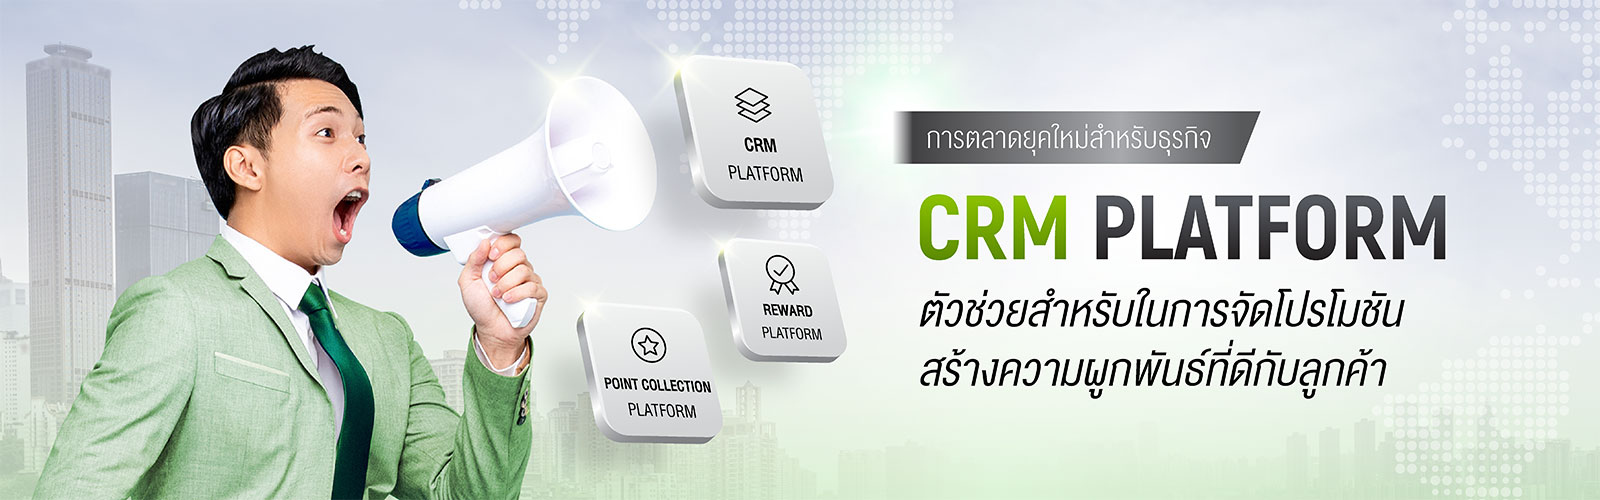
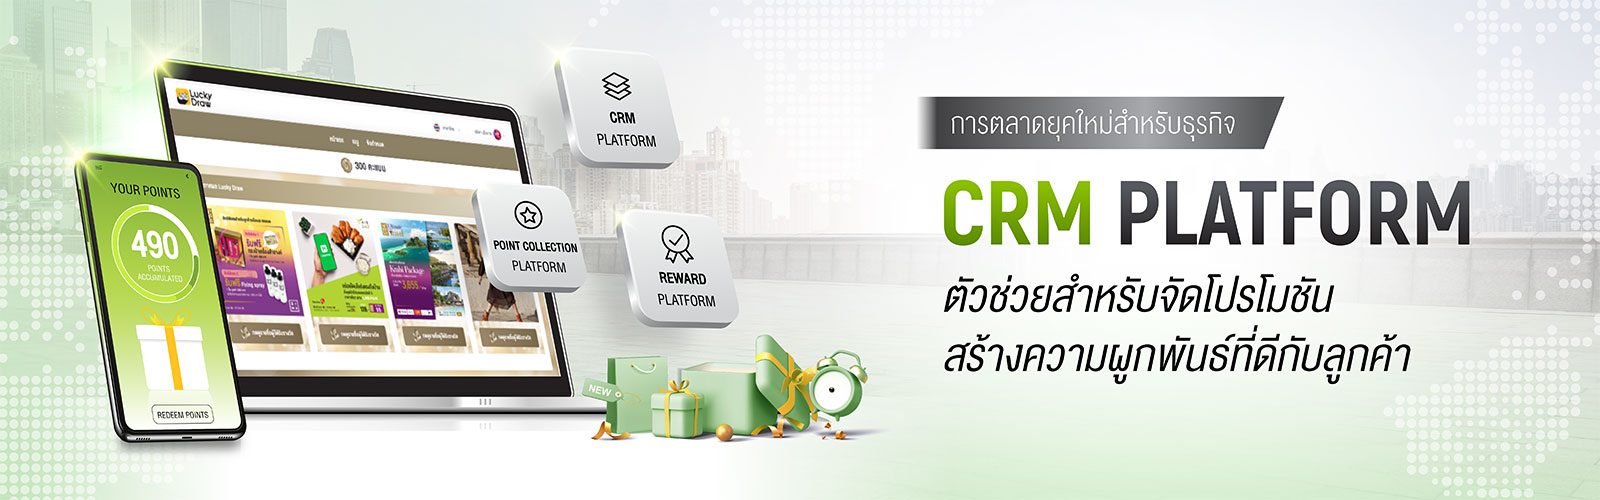
add img page crm, edit design new, add bg-size

diff --git a/css/digistyle.css b/css/digistyle.css
@@ -1268,15 +1268,15 @@ body>sec {
     height: auto;
     bottom: 0;
     right: 0;
-    margin-bottom: 1%;
-    margin-right: 48%;
+    margin-bottom: 8%;
+    margin-right: 55%;
     z-index: 2;
 }
 .fragment-crm-banner3 {
     animation-delay: 500ms;
     -webkit-animation-delay: 500ms;
     position: absolute;
-    width: 39%;
+    width: 56%;
     height: auto;
     bottom: 0;
     left: 0;
@@ -2100,19 +2100,18 @@ body>sec {
     object-fit: contain;
     bottom: 0;
     right: 0;
-    margin-bottom: 2%;
     margin-right: 5%;
 }
 .ic-crm5 {
     position: absolute;
-    max-width: 25%;
-    width: 25%;
+    max-width: 21%;
+    width: 21%;
     height: auto;
     object-fit: contain;
     bottom: 0;
     right: 0;
     margin-bottom: 5%;
-    margin-right: 25.5%;
+    margin-right: 27%;
     z-index: 2;
 }
 .ic-crm6 {
@@ -2127,14 +2126,14 @@ body>sec {
 }
 .ic-crm7 {
     position: absolute;
-    max-width: 25%;
-    width: 25%;
+    max-width: 23%;
+    width: 23%;
     height: auto;
     object-fit: contain;
     bottom: 0;
     left: 0;
-    margin-bottom: 21%;
-    margin-left: 23%;
+    margin-bottom: 16%;
+    margin-left: 18%;
 }
 /* ---------------------------End Style CRM Page------------------------ */
 
@@ -3321,6 +3320,7 @@ body>sec {
     }
     #otp {
         padding: 3% 0 0 0;
+        background-size: cover;
     }
     .icmob-08 {
         position: relative;
@@ -3432,6 +3432,9 @@ body>sec {
     #web-appdev {
         padding: 3% 0 0 0;
     }
+    #mob-appdev {
+        background-size: cover;
+    }
     .ic01-quotation6 {
         margin-left: 8%;
     }
@@ -3504,17 +3507,20 @@ body>sec {
     #introduce-crm {
         background-image: url(../images/crm/mobile/bg/bg01mob.jpg);
     }
+    #point {
+        background-size: contain;
+    }
     .ic-crm4 {
         position: relative;
-        max-width: 60%;
-        width: 60%;
-        margin-right: 5%;
+        max-width: 80%;
+        width: 80%;
+        margin-right: -15%;
     }
     .ic-crm5 {
-        max-width: 30%;
-        width: 30%;
-        margin-bottom: 8%;
-        margin-right: 52.5%;
+        max-width: 40%;
+        width: 40%;
+        margin-bottom: 10%;
+        margin-right: 43%;
     }
     .ic-crm6 {
         position: relative;
